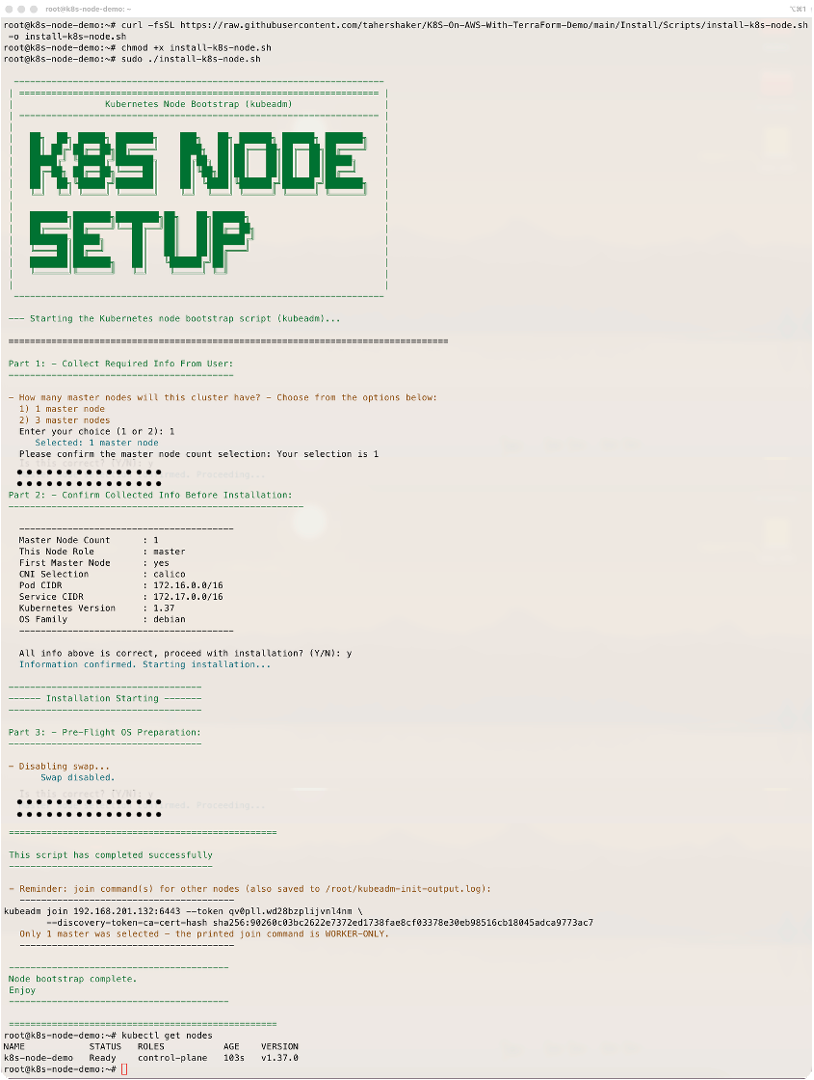
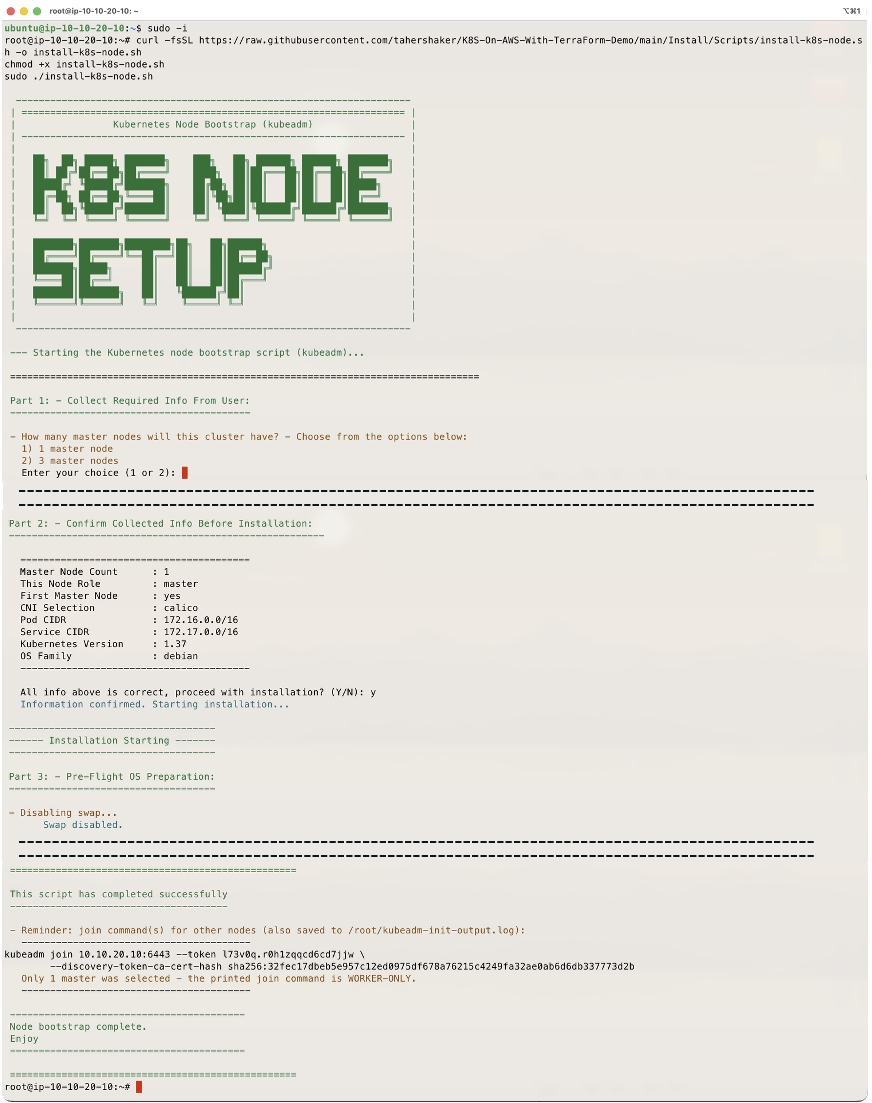
FC

diff --git a/Install/README.md b/Install/README.md
@@ -57,7 +57,7 @@ Run once per node, the script will:
 - SSH access to the bastion host, and from the bastion onward to each Kubernetes node.
 - Outbound internet access from each Kubernetes node (to `pkgs.k8s.io`, `download.docker.com`, and — for Calico — `api.github.com` and `raw.githubusercontent.com`).
 - Root access on each node (the script must be run as `root` or via `sudo`).
-- [Optional - If you have changed the Terraform and provisioned 3 master nodes] the Load Balancer already provisioned, listening on TCP port 6443, and passed through without TLS termination.
+- For a 3-master cluster: the Load Balancer already provisioned, listening on TCP port 6443, and passed through without TLS termination.
 
 ---
 
@@ -73,11 +73,45 @@ If you've changed the Terraform to deploy 3 masters instead of 1, the order beco
 
 ---
 
+## Set a Static Hostname on Each Node
+
+By default, AWS assigns each EC2 instance a hostname derived from its private IP (e.g. `ip-10-0-1-23.ec2.internal`). Kubernetes uses this hostname as the node's permanent identity the moment `kubeadm init` or `kubeadm join` runs — and if the instance is ever stopped and started again, AWS can assign it a new private IP, changing the hostname and effectively orphaning the original node from the cluster.
+
+To avoid this, set a static, meaningful hostname on each node **before** running `install-k8s-node.sh`. Run the relevant block below right after SSHing into that node.
+
+**Master node:**
+```bash
+sudo hostnamectl set-hostname k8s-master-1
+echo "127.0.1.1 k8s-master-1" | sudo tee -a /etc/hosts
+exec bash
+```
+
+**Worker node 1:**
+```bash
+sudo hostnamectl set-hostname k8s-worker-1
+echo "127.0.1.1 k8s-worker-1" | sudo tee -a /etc/hosts
+exec bash
+```
+
+**Worker node 2:**
+```bash
+sudo hostnamectl set-hostname k8s-worker-2
+echo "127.0.1.1 k8s-worker-2" | sudo tee -a /etc/hosts
+exec bash
+```
+
+Verify the change took before continuing:
+```bash
+hostname
+```
+
+---
+
 ## How to Use
 
 ### Step 1 — Provision the infrastructure
 
-Apply the Terraform in this repository to stand up the bastion host and the Kubernetes nodes, following the instructions in the repo's main README. Please refer to this repo page for more information regarding this step [Terraform Build ReadMe](/Build/README.md)
+Apply the Terraform in this repository to stand up the bastion host and the Kubernetes nodes, following the instructions in the repo's main README.
 
 ### Step 2 — SSH into the bastion host
 
@@ -93,7 +127,11 @@ From the bastion, connect to the node you're about to bootstrap (start with the 
 ssh -i <path-to-your-key.pem> <node-user>@<node-private-ip>
 ```
 
-### Step 4 — Download and run the script on that node
+### Step 4 — Set a static hostname on this node
+
+Run the block matching this node's role from the Set a Static Hostname on Each Node section above.
+
+### Step 5 — Download and run the script on that node
 
 ```bash
 curl -fsSL https://raw.githubusercontent.com/tahershaker/K8S-On-AWS-With-TerraForm-Demo/main/Install/Scripts/install-k8s-node.sh -o install-k8s-node.sh
@@ -105,7 +143,7 @@ The script is fully interactive from this point — answer each question as prom
 
 Repeat Steps 3 and 4 for every remaining node, in the order described above.
 
-### Step 5 — Set up `kubectl` access from the bastion
+### Step 6 — Set up `kubectl` access from the bastion
 
 Once every node has been bootstrapped, copy the cluster's `kubeconfig` from the master node to the bastion host, and install `kubectl` there so you can manage the cluster without SSHing further into the master each time.
 
